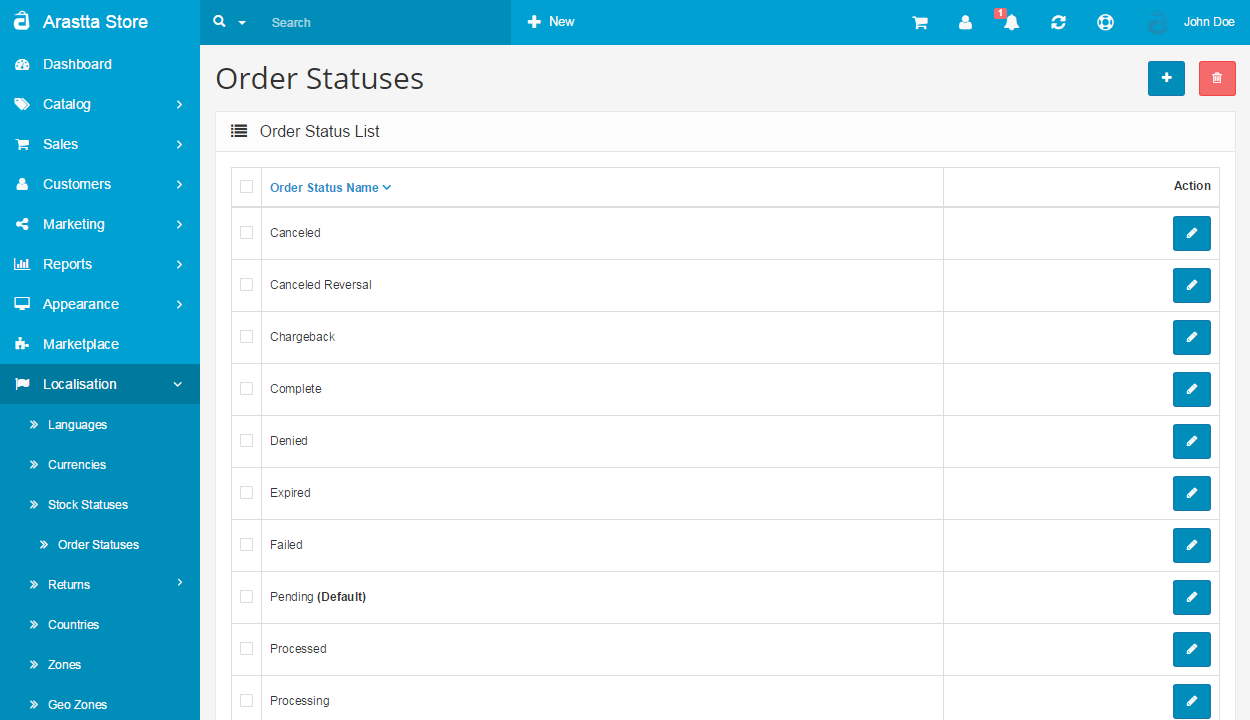
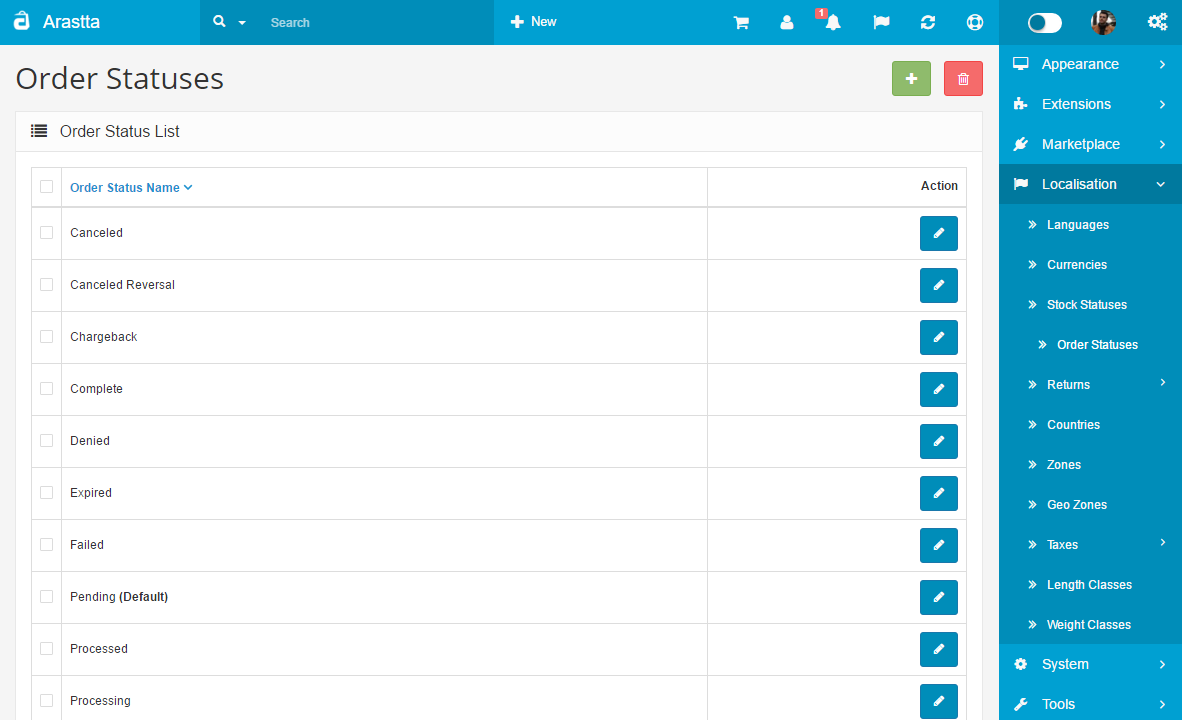
Basic-Advanced mode for Users and Localisation

diff --git a/en/user-manual/system/users/groups.md b/en/user-manual/system/users/groups.md
@@ -1,18 +1,37 @@
 User Groups
 ======
 
+<div class="uk-alert-info uk-alert">
+  <span class="uk-icon-info-circle"></span> You can switch between Basic and Advanced modes from the tabs below.
+</div>
+<ul class="uk-tab" data-uk-tab="{connect:'#doc-tabs', animation: 'fade'}">
+    <li><a href="">Basic Mode</a></li>
+    <li><a href="">Advanced Mode</a></li>
+</ul>
+
 Before you begin creating user profiles, you should visit **System → Users → User Groups** to set specific access and modification permissions. Also you can hide or show dasboard modules from the **General** tab for each group.
 
-![system user groups backend](_images/system-user-groups.png)
+<ul id="doc-tabs" class="uk-switcher uk-margin">
+    <li>![system user groups backend](_images/basic-system-user-groups.png)</li>
+    <li>![system user groups backend](_images/system-user-groups.png)</li>
+</ul>
 
 Arastta lets you customize which admin side pages can be accessed by the specific user groups. You must check which pages can be accessed under **Access Permission**, and which page content can be modified under **Modify Permission**. The pages in the box office are displayed according to the top menu sections. For example, catalog/attribute is the Attribute section under Catalog in the top menu of the dashboard.
 
-![user groups backend general tab](_images/user-group-general.png)
+<ul id="doc-tabs" class="uk-switcher uk-margin">
+    <li>![user groups backend general tab](_images/basic-user-group-general.png)</li>
+    <li>![user groups backend general tab](_images/user-group-general.png)</li>
+</ul>
 
 <div class="uk-alert uk-alert-info uk-margin-small-left uk-margin-small-right"><i class="uk-icon-info-circle"></i> Be aware that checking sections in Access Permission lets the user see the information on those pages. If a page in Access Permission is selected, but the page in Modify Permission is unselected; the user will be able to view the information on the page, but will be unable to modify this information.</div>
 
 For the Co-worker group, we chose to allow access and permit modification to the Catalog Section only, but not the rest of the admin panel.
 
-![user groups backend access permission tab](_images/user-group-access-permission.png)
+<ul id="doc-tabs" class="uk-switcher uk-margin">
+    <li>![user groups backend access permission tab](_images/basic-user-group-access-permission.png)</li>
+    <li>![user groups backend access permission tab](_images/user-group-access-permission.png)</li>
+</ul>
 
-Arastta provides two user groups installed into the admin side, Administrator and Demonstration. The Administrator has every box checked under **Access Permission** and **Modify Permission**. It is an intuitive step that users assigned to the Administrator position would need access to all of the admin pages and permission to modify these sections. You can choose to leave the group unchanged, or unselect categories for this group. The Demonstration user group doesn't have any admin pages checked in **Access Permission** or **Modify Permission**, meaning users added in this group will not be able to access the admin side or modify any features of the shop.
+Arastta provides only one user group installed into the admin side, named Administrator. The Administrator has every box checked under **Access Permission** and **Modify Permission**. It is an intuitive step that users assigned to the Administrator position would need access to all of the admin pages and permission to modify these sections. You can choose to leave the group unchanged, or unselect categories for this group.
+
+You can create multiple user groups, for example Demonstration user group. The Demonstration user group may not have any admin pages checked in **Access Permission** or **Modify Permission**, meaning users added in this group will not be able to access the admin side or modify any features of the shop.

diff --git a/en/user-manual/system/users/overview.md b/en/user-manual/system/users/overview.md
@@ -1,20 +1,33 @@
 Users
 =====
 
+<div class="uk-alert-info uk-alert">
+  <span class="uk-icon-info-circle"></span> You can switch between Basic and Advanced modes from the tabs below.
+</div>
+<ul class="uk-tab" data-uk-tab="{connect:'#doc-tabs', animation: 'fade'}">
+    <li><a href="">Basic Mode</a></li>
+    <li><a href="">Advanced Mode</a></li>
+</ul>
+
 Managing the in's and out's of the admin side of an online store can be quite the task for just one person to handle. You may find it necessary to assign administration side permissions to specific people on your team. The User section lets you customize which users can access the admin side of the store, and what sections can be accessed or modified by them.
 
-With the user groups set up, the individual users can be saved to the administration side of your store under **System → Users → Users**. Clicking "**Insert**" will bring you to the user form below. Aside from the basic user information, a password must be created for the user to login to the dashboard. The User Group selected from the drop down box will assign specific permissions to the user. The status lets you choose to enable the user to be able to login, or disable the user from logging in to the dashboard.
+With the user groups set up, the individual users can be saved to the administration side of your store under **System → Users → Users**. Clicking "**Add New**" will bring you to the user form below. Aside from the basic user information, a password must be created for the user to login to the dashboard. The User Group selected from the drop down box will assign specific permissions to the user. The status lets you choose to enable the user to be able to login, or disable the user from logging in to the dashboard.
 
-![user detail back end](_images/user-detail.png)
+<ul id="doc-tabs" class="uk-switcher uk-margin">
+    <li>![user detail back end](_images/basic-user-detail.png)
+
+![user detail back end](_images/basic-user-detail-1.png)</li>
+    <li>![user detail back end](_images/user-detail.png)</li>
+</ul>
 
 ### Permission denied
 
-The user can access the dashboard the same way the administrator would, with the exception of entering their specific username and password. See [Admin interface](docs/user-manual/admin/overview) for more information.
+The user can access the dashboard the same way the administrator would, with the exception of entering their specific username and password. See [Admin interface](docs/user-manual/admin-panel) for more information.
 
-Our user, John Doe, was assigned to the Co-worker group; meaning he will be able to access and modify all the Catalog pages. He will not be able to access Extensions, Sales, System, or Reports. The following screenshot displays what John Doe will view when he tries to access the Extensions page.
+Our user, John Doe, was assigned to the Co-worker group; meaning he will be able to access and modify all the Catalog pages except **Manufacturers**. He will not be able to access Extensions, Sales, System, or Reports. The following screenshot displays what John Doe will view when he tries to access the Extensions page.
 
 ![permission denied](_images/user-permission-denied.png)
 
 If John Doe was permitted access to this page, but not modify it, the following warning message would appear if he tried to save an edit:
 
-"Warning: You do not have permission to modify categories!"
+"Warning: You do not have permission to modify manufacturers!"

diff --git a/en/user-manual/localisation/currencies.md b/en/user-manual/localisation/currencies.md
@@ -1,20 +1,34 @@
 Currencies
 ==========
 
+<div class="uk-alert-info uk-alert">
+  <span class="uk-icon-info-circle"></span> You can switch between Basic and Advanced modes from the tabs below.
+</div>
+<ul class="uk-tab" data-uk-tab="{connect:'#doc-tabs', animation: 'fade'}">
+    <li><a href="">Basic Mode</a></li>
+    <li><a href="">Advanced Mode</a></li>
+</ul>
+
 The currency sections lets you select which currencies are available for use in store front. The default currency will display all the product prices in that currency. The currency preference can be changed by the customer in the header section of any page in the front office.
 
 In the store below, we have enabled the Euro, Pound, and US Dollar.
 
-![currency backend page](_images/currencies-1.png)
+<ul id="doc-tabs" class="uk-switcher uk-margin">
+    <li>![currency backend page](_images/basic-currencies-1.png)</li>
+    <li>![currency backend page](_images/currencies-1.png)</li>
+</ul>
 
 The following information is needed about a currency to add it to your store:
 
 - **Currency Title**
 - **Code:** The ISO code for the currency. Currency codes can be looked up at this [currency converter](http://www.oanda.com/currency/?srccont=rightnav).
 - **Symbol Left:** Adds a currency symbol to the left of the code.
-- **Symbol Right: **Adds a currency symbol to the right of the code.
-- **Decimal Places: **The amount of decimal places displayed in the price of the store front.
+- **Symbol Right:** Adds a currency symbol to the right of the code.
+- **Decimal Places:** The amount of decimal places displayed in the price of the store front.
 - **Value:** The Default currency will be set to a value of 1. Every value of currency will be relative to this value. Since the US Dollar is 1.0 (the default), the Euro is tabulated to .81 for the value based on its worth. When Arastta transitions between currencies in the store front, it will use the value number to calculate the prices of products in that new currency. Arastta will update the currency values in the Local Tab under store settings if Auto Update Currency is enabled. Visit [Settings ](docs/user-manual/system/settings/local)for more information.
 - **Status:** Enables or disables the currency in the store front.
 
-![adding currencey](_images/currencies-2.png)
+<ul id="doc-tabs" class="uk-switcher uk-margin">
+    <li>![adding currencey](_images/basic-currencies-2.png)</li>
+    <li>![adding currencey](_images/currencies-2.png)</li>
+</ul>

diff --git a/en/user-manual/localisation/countries.md b/en/user-manual/localisation/countries.md
@@ -1,6 +1,17 @@
 Countries
 =========
 
-239 countries are stored in the Country section with the Arastta installation. These countries can be used to estimate shipping and taxes when a customer enters in their location. Each country can be individually disabled, removing them from the store front, by editing them. The countries can be deleted as well. The only issue with deletion of a country is that the country information will be deleted with it. If you wanted to make that country available for shipping, you would have to re-enter the country's information; whereas enabling a disabled country is easier.
+<div class="uk-alert-info uk-alert">
+  <span class="uk-icon-info-circle"></span> You can switch between Basic and Advanced modes from the tabs below.
+</div>
+<ul class="uk-tab" data-uk-tab="{connect:'#doc-tabs', animation: 'fade'}">
+    <li><a href="">Basic Mode</a></li>
+    <li><a href="">Advanced Mode</a></li>
+</ul>
 
-![countries backend](_images/countries.png)
+253 countries are stored in the Country section with the Arastta installation. These countries can be used to estimate shipping and taxes when a customer enters in their location. Each country can be individually disabled, removing them from the store front, by editing them. The countries can be deleted as well. The only issue with deletion of a country is that the country information will be deleted with it. If you wanted to make that country available for shipping, you would have to re-enter the country's information; whereas enabling a disabled country is easier.
+
+<ul id="doc-tabs" class="uk-switcher uk-margin">
+    <li>![countries backend](_images/basic-countries.png)</li>
+    <li>![countries backend](_images/countries.png)</li>
+</ul>

diff --git a/en/user-manual/localisation/stock-statuses.md b/en/user-manual/localisation/stock-statuses.md
@@ -1,16 +1,30 @@
 Stock Statuses
 ==============
 
+<div class="uk-alert-info uk-alert">
+  <span class="uk-icon-info-circle"></span> You can switch between Basic and Advanced modes from the tabs below.
+</div>
+<ul class="uk-tab" data-uk-tab="{connect:'#doc-tabs', animation: 'fade'}">
+    <li><a href="">Basic Mode</a></li>
+    <li><a href="">Advanced Mode</a></li>
+</ul>
+
 In this section you may create **Out of Stock** statuses to be displayed on the product page when a product is out of stock. The stock status name is arbitrary.
 
 The default stock status for **Out of Stock** products can be edited under the option tab in [Settings](docs/user-manual/system/settings/option). The specific **Out of Stock Status** for a product can be edited in the **Data** tab in [Products](docs/user-manual/catalog/products/data).
 
-![stock statuses backend](_images/stock-statuses.png)
+<ul id="doc-tabs" class="uk-switcher uk-margin">
+    <li>![stock statuses backend](_images/basic-stock-statuses.png)</li>
+    <li>![stock statuses backend](_images/stock-statuses.png)</li>
+</ul>
 
 ##Styling on stock status
 
 This feature comes with Arastta 1.2.0 version. It allows you to set different colors for each status.
 
-![stock statuses backend edit](_images/stock-statuses-1.png)
+<ul id="doc-tabs" class="uk-switcher uk-margin">
+    <li>![stock statuses backend edit](_images/basic-stock-statuses-1.png)</li>
+    <li>![stock statuses backend edit](_images/stock-statuses-1.png)</li>
+</ul>
 
 ![stock statuses front-end](_images/stock-statuses-2.png)

diff --git a/en/user-manual/localisation/order-statuses.md b/en/user-manual/localisation/order-statuses.md
@@ -1,6 +1,17 @@
 Order statuses
 ==============
 
-Similar to the stock status, when an order is confirmed by the customer they will need to see an order status. The order status can be accessed from their account page in the store front. After the order status names are created, they can be selected under [Orders](docs/user-manual/marketplace/order-totals).
+<div class="uk-alert-info uk-alert">
+  <span class="uk-icon-info-circle"></span> You can switch between Basic and Advanced modes from the tabs below.
+</div>
+<ul class="uk-tab" data-uk-tab="{connect:'#doc-tabs', animation: 'fade'}">
+    <li><a href="">Basic Mode</a></li>
+    <li><a href="">Advanced Mode</a></li>
+</ul>
 
-![order statuses backend](_images/order-statuses.png)
+Similar to the stock status, when an order is confirmed by the customer they will need to see an order status. The order status can be accessed from their account page in the store front. After the order status names are created, they can be selected under [Orders](docs/user-manual/extensions/order-totals).
+
+<ul id="doc-tabs" class="uk-switcher uk-margin">
+    <li>![order statuses backend](_images/basic-order-statuses.png)</li>
+    <li>![order statuses backend](_images/order-statuses.png)</li>
+</ul>

diff --git a/en/user-manual/localisation/length-classes.md b/en/user-manual/localisation/length-classes.md
@@ -1,10 +1,21 @@
 Length Classes
 ==============
 
+<div class="uk-alert-info uk-alert">
+  <span class="uk-icon-info-circle"></span> You can switch between Basic and Advanced modes from the tabs below.
+</div>
+<ul class="uk-tab" data-uk-tab="{connect:'#doc-tabs', animation: 'fade'}">
+    <li><a href="">Basic Mode</a></li>
+    <li><a href="">Advanced Mode</a></li>
+</ul>
+
 Length classes are used to assign length specifications to products in the [Data tab](docs/user-manual/catalog/products/data). The values added to products will be displayed in the product page in the store front. The following information is required to create a new length class:
 
 - **Length title**: The name of the length measurement, (i.e. Centimeter)
 - **Length unit**: The units of measurement (i.e. cm)
 - **Value**: Set 1 for the default value. Every value added to other lengths, such as km, will need to be relative to that. There are 10 mm in one 1cm, so the value of mm would be set to 10.
 
-![length classes backend](_images/length-classes.png)
+<ul id="doc-tabs" class="uk-switcher uk-margin">
+    <li>![length classes backend](_images/basic-length-classes.png)</li>
+    <li>![length classes backend](_images/length-classes.png)</li>
+</ul>

diff --git a/en/user-manual/localisation/geo-zones.md b/en/user-manual/localisation/geo-zones.md
@@ -1,10 +1,21 @@
 Geo Zones
 =========
 
+<div class="uk-alert-info uk-alert">
+  <span class="uk-icon-info-circle"></span> You can switch between Basic and Advanced modes from the tabs below.
+</div>
+<ul class="uk-tab" data-uk-tab="{connect:'#doc-tabs', animation: 'fade'}">
+    <li><a href="">Basic Mode</a></li>
+    <li><a href="">Advanced Mode</a></li>
+</ul>
+
 Geo zones are customized zones used in calculating shipping and taxes. Multiple countries and zones can be added to one geo zone to customize shipping methods.
 
 The geo zone below is used to combine the west cost states of the United States into one zone. The west coast of the US consists of California, Oregon, and Washington states. Each individual state is added by selecting the Country, Zone, then clicking "Add Geo Zone".
 
-![geo zones backend](_images/geo-zones.png)
+<ul id="doc-tabs" class="uk-switcher uk-margin">
+    <li>![geo zones backend](_images/basic-geo-zones.png)</li>
+    <li>![geo zones backend](_images/geo-zones.png)/li>
+</ul>
 
-See [Shipping ](docs/user-manual/marketplace/shipping)for more information on how geo zones are used.
+See [Shipping](docs/user-manual/extensions/shipping) for more information on how geo zones are used.

diff --git a/en/user-manual/localisation/languages.md b/en/user-manual/localisation/languages.md
@@ -20,7 +20,7 @@ You can also download the language pack from [Translations Directory](http://tra
 Settings
 --------
 
-Languages can be set up from Localisation > Languages page. The following information will be needed to save the language:
+Languages can be set up from **Localisation > Languages** page. The following information will be needed to save the language:
 
 - **Name**: The name in native language.
 - **Code**: The ISO language code. [W3Schools](http://www.w3schools.com/tags/ref_language_codes.asp) has a complete list of ISO codes.
@@ -34,7 +34,7 @@ Languages can be set up from Localisation > Languages page. The following inform
 Language determination in store front
 -------------------------------------
 
-Arastta will try to determine the store front language based on the visitor's browser settings and your installed languages. If not able to match, the one set from the Settings => Local page will be loaded as per default.
+Arastta will try to determine the store front language based on the visitor's browser settings and your installed languages. If not able to match, the one set from the **Settings > Local** page will be loaded as per default.
 
 Contribute
 ----------

diff --git a/en/user-manual/localisation/weight-classes.md b/en/user-manual/localisation/weight-classes.md
@@ -1,10 +1,21 @@
 Weight Classes
 ==============
 
+<div class="uk-alert-info uk-alert">
+  <span class="uk-icon-info-circle"></span> You can switch between Basic and Advanced modes from the tabs below.
+</div>
+<ul class="uk-tab" data-uk-tab="{connect:'#doc-tabs', animation: 'fade'}">
+    <li><a href="">Basic Mode</a></li>
+    <li><a href="">Advanced Mode</a></li>
+</ul>
+
 Similar to length classes, weight classes are used to assign weight specifications to products in the [Data tab](docs/user-manual/catalog/products/data). The following information is required to create a new weight class:
 
 - **Weight title**: The name of the weight measurement (i.e. Kilogram)
 - **Weight unit**: The unites of measurement (i.e. kg)
 - **Value**: Set 1 for the default value.Every value added to other weights, such as g, will need to be relative to that value. There are 1000 g in 1 kg, so the value of g would be set to 1000.
 
-![weight classes backend](_images/weight-classes.png)
+<ul id="doc-tabs" class="uk-switcher uk-margin">
+    <li>![weight classes backend](_images/basic-weight-classes.png)</li>
+    <li>![weight classes backend](_images/weight-classes.png)</li>
+</ul>

diff --git a/en/user-manual/localisation/zones.md b/en/user-manual/localisation/zones.md
@@ -1,6 +1,6 @@
 Zones
 =====
 
-3948 zones are included with install. Zones are specific regions of countries, such as a state or province. Creating zones helps estimate taxes and shipping in the store front.
+4106 zones are included with install. Zones are specific regions of countries, such as a state or province. Creating zones helps estimate taxes and shipping in the store front.
 
 ![add zone backend](_images/zones.png)
